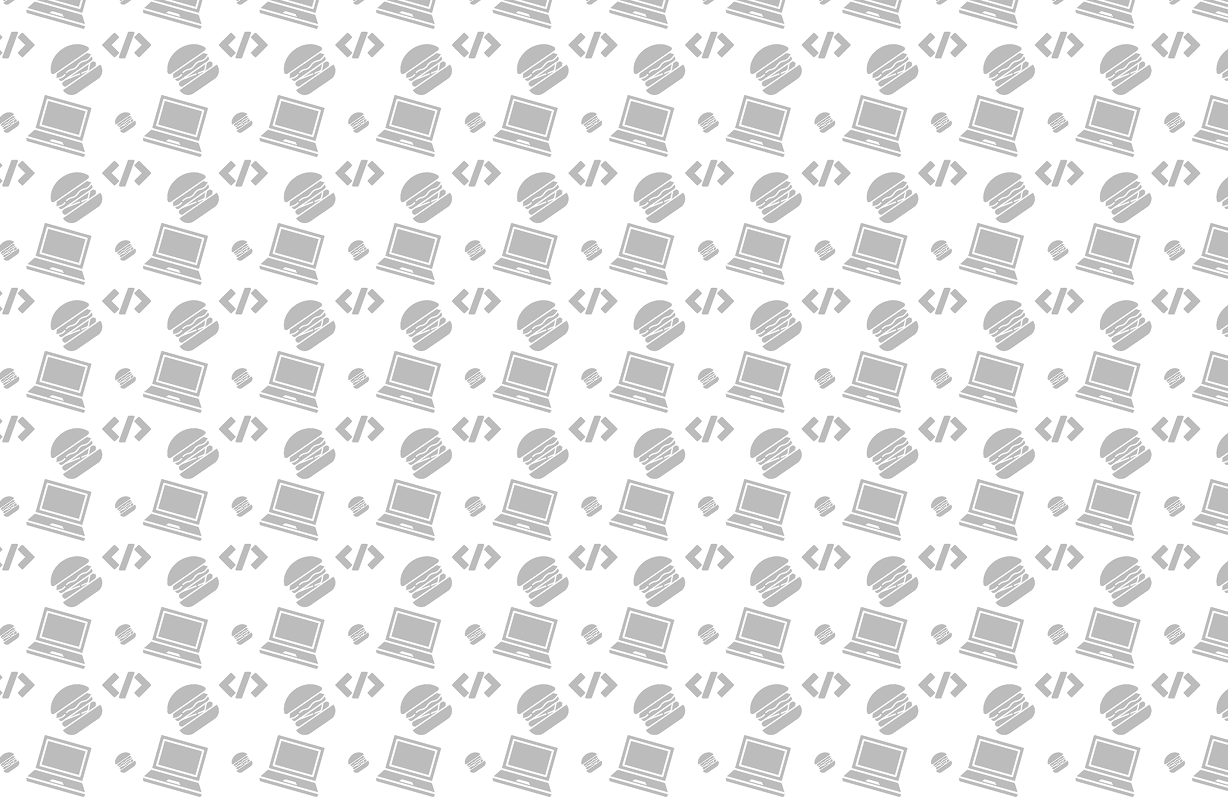
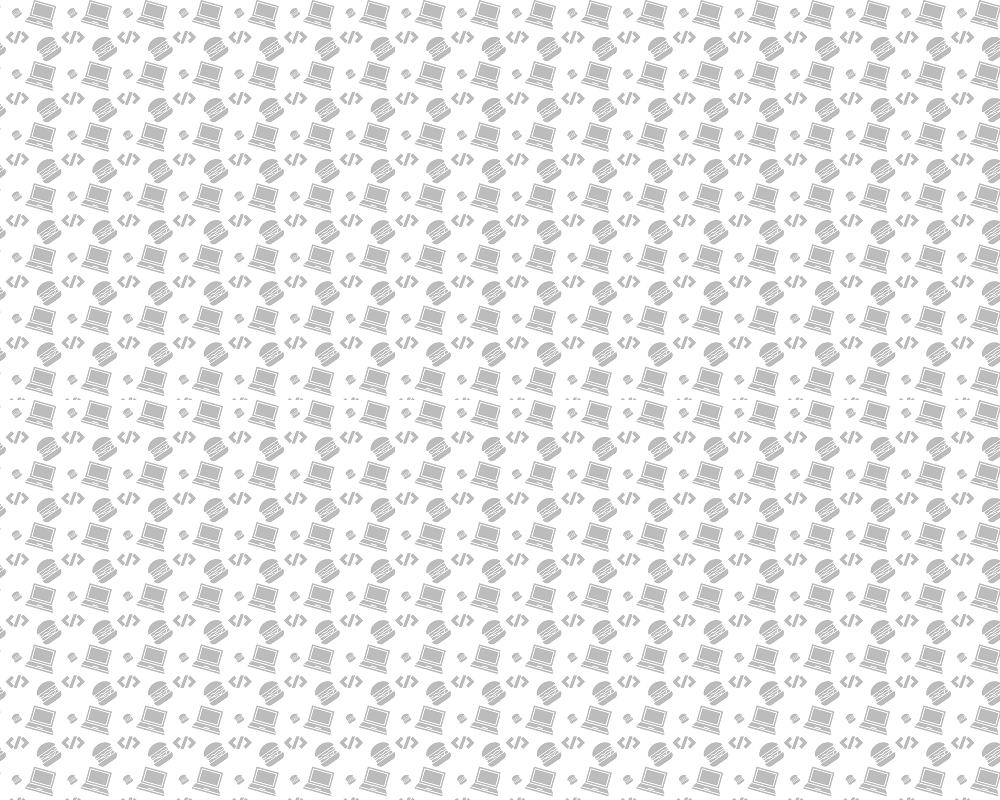
git commit -m "feat(categories): adicionar botão de voltar e footer na tela de categorias

diff --git a/src/containers/Menu/index.jsx b/src/containers/Menu/index.jsx
@@ -1,5 +1,5 @@
 import { useEffect, useMemo, useState } from 'react';
-import { useNavigate } from 'react-router-dom';
+import { useNavigate, useSearchParams } from 'react-router-dom';
 
 import { CardProduct } from '../../components/CardProduct';
 import { api } from '../../services/api';
@@ -10,12 +10,24 @@ import {
   CategoryMenu,
   ProductsContainer,
   CategoryButton,
+  BackButton,
+  Footer,
 } from './styles';
 
 export function Menu() {
   const [categories, setCategories] = useState([]);
   const [products, setProducts] = useState([]);
-  const [activeCategory, setActiveCategory] = useState(0);
+  const [searchParams] = useSearchParams();
+  const [activeCategory, setActiveCategory] = useState(() => {
+    const categoryParam = searchParams.get('category');
+    if (categoryParam !== null) {
+      const categoryId = Number(categoryParam);
+      if (!isNaN(categoryId)) {
+        return categoryId;
+      }
+    }
+    return 0;
+  });
 
   const filteredProducts = useMemo(() => {
     if (activeCategory === 0) {
@@ -25,6 +37,7 @@ export function Menu() {
   }, [activeCategory, products]);
 
   const navigate = useNavigate();
+
   useEffect(() => {
     async function loadData() {
       try {
@@ -53,7 +66,7 @@ export function Menu() {
   }, []);
 
   return (
-    <Container>
+    <>
       <Banner>
         <h1>
           O Melhor
@@ -64,32 +77,46 @@ export function Menu() {
           <span>Esse cartápio está irresistível</span>
         </h1>
       </Banner>
-      <CategoryMenu>
-        {categories.map((category) => (
-          <CategoryButton
-            key={category.id}
-            onClick={() => {
-              navigate(
-                {
-                  pathname: '/cardapio',
-                  search: `?category=${category.id}`,
-                },
-                {
-                  replace: false,
-                },
-              );
-              setActiveCategory(category.id);
-            }}
-          >
-            {category.name}
-          </CategoryButton>
-        ))}
-      </CategoryMenu>
-      <ProductsContainer>
-        {filteredProducts.map((product) => (
-          <CardProduct key={product.id} product={product} />
-        ))}
-      </ProductsContainer>
-    </Container>
+      <Container>
+        <CategoryMenu>
+          {categories.map((category) => (
+            <CategoryButton
+              key={category.id}
+              $isActiveCategory={activeCategory === category.id}
+              onClick={() => {
+                navigate(
+                  {
+                    pathname: '/cardapio',
+                    search: `?category=${category.id}`,
+                  },
+                  {
+                    replace: false,
+                  },
+                );
+                setActiveCategory(category.id);
+              }}
+            >
+              {category.name}
+            </CategoryButton>
+          ))}
+        </CategoryMenu>
+        <ProductsContainer>
+          {filteredProducts.map((product) => (
+            <CardProduct key={product.id} product={product} />
+          ))}
+        </ProductsContainer>
+        <BackButton
+          onClick={() => {
+            navigate('/', { replace: true });
+            setActiveCategory(0);
+          }}
+        >
+          Voltar
+        </BackButton>
+      </Container>
+      <Footer>
+        <p>© 2026 Sabor Goiano Burguer. Todos os direitos reservados.</p>
+      </Footer>
+    </>
   );
 }

diff --git a/src/containers/Menu/styles.js b/src/containers/Menu/styles.js
@@ -8,7 +8,6 @@ import BannerHamburger from '../../assets/banner-hamburger.svg';
 export const Container = styled.div`
   width: 100%;
   min-height: 100vh;
-  background-color: #f0f0f0;
   background:
     linear-gradient(rgba(255, 255, 255, 0.3), rgba(255, 255, 255, 0.3)),
     url(${Background});
@@ -55,9 +54,8 @@ export const CategoryMenu = styled.div`
 
 export const CategoryButton = styled(Link)`
   background-color: transparent;
-  border: 2px solid #f55f09;
-  border-radius: 8px;
-  color: #f55f09;
+  border: none;
+  color: ${(props) => (props.$isActiveCategory ? '#333' : '#f55f09')};
   cursor: pointer;
   font-size: 24px;
   font-weight: bold;
@@ -65,6 +63,8 @@ export const CategoryButton = styled(Link)`
   text-align: center;
   text-decoration: none;
   transition: all 0.3s ease-in-out;
+  border-bottom: ${(props) =>
+    props.$isActiveCategory ? '4px solid #f55f09' : 'none'};
 `;
 
 export const ProductsContainer = styled.div`
@@ -74,7 +74,30 @@ export const ProductsContainer = styled.div`
   gap: 60px;
   justify-content: center;
   max-width: 1200px;
-  margin: 50px;
-  margin-left: auto;
-  margin-right: auto;
+  margin: 50px auto 0;
+`;
+export const BackButton = styled.button`
+  display: block;
+  margin: 0 auto 30px auto;
+  padding: 10px 20px;
+  background-color: #f55f09;
+  color: #fff;
+  border: none;
+  border-radius: 5px;
+  font-size: 18px;
+  cursor: pointer;
+  transition: all 0.3s ease-in-out;
+
+  &:hover {
+    background-color: #e14c00;
+  }
+`;
+export const Footer = styled.footer`
+  background-color: #f55f09;
+  color: #fff;
+  text-align: center;
+  padding: 10px 0;
+  position: fixed;
+  bottom: 0;
+  width: 100%;
 `;

diff --git a/src/components/CategoriesCarousel/styles.js b/src/components/CategoriesCarousel/styles.js
@@ -1,3 +1,5 @@
+import { Link } from 'react-router-dom';
+
 import styled from 'styled-components';
 
 export const Container = styled.div`
@@ -20,16 +22,6 @@ export const ContainerItems = styled.div`
   justify-content: center;
   align-items: flex-end;
   border-radius: 15px;
-
-  p {
-    color: #fff;
-    background-color: rgba(0, 0, 0, 0.5);
-    border-radius: 15px;
-    padding: 10px 30px;
-    font-size: 28px;
-    font-weight: bold;
-    text-align: left;
-  }
 `;
 
 export const Title = styled.h2`
@@ -52,5 +44,23 @@ export const Title = styled.h2`
     transform: translateX(-50%);
     border-radius: 5px;
     margin: 0;
+  }
+`;
+
+export const CategoryButton = styled(Link)`
+  color: #fff;
+  background-color: rgba(0, 0, 0, 0.5);
+  border-radius: 15px;
+  padding: 10px 30px;
+  font-size: 22px;
+  font-weight: bold;
+  text-align: center;
+  text-decoration: none;
+  margin-bottom: 20px;
+  cursor: pointer;
+  transition: background-color 0.3s;
+
+  &:hover {
+    background-color: rgba(0, 0, 0, 0.7);
   }
 `;

diff --git a/src/components/CategoriesCarousel/index.jsx b/src/components/CategoriesCarousel/index.jsx
@@ -3,7 +3,7 @@ import Carousel from 'react-multi-carousel';
 import 'react-multi-carousel/lib/styles.css';
 
 import { api } from '../../services/api';
-import { Container, ContainerItems, Title } from './styles';
+import { CategoryButton, Container, ContainerItems, Title } from './styles';
 
 export function CategoriesCarousel() {
   const [categories, setCategories] = useState([]);
@@ -49,7 +49,9 @@ export function CategoriesCarousel() {
       >
         {categories.map((category) => (
           <ContainerItems key={category.id} $imageUrl={category.url}>
-            <p>{category.name}</p>
+            <CategoryButton to={`/cardapio?category=${category.id}`}>
+              {category.name}
+            </CategoryButton>
           </ContainerItems>
         ))}
       </Carousel>
